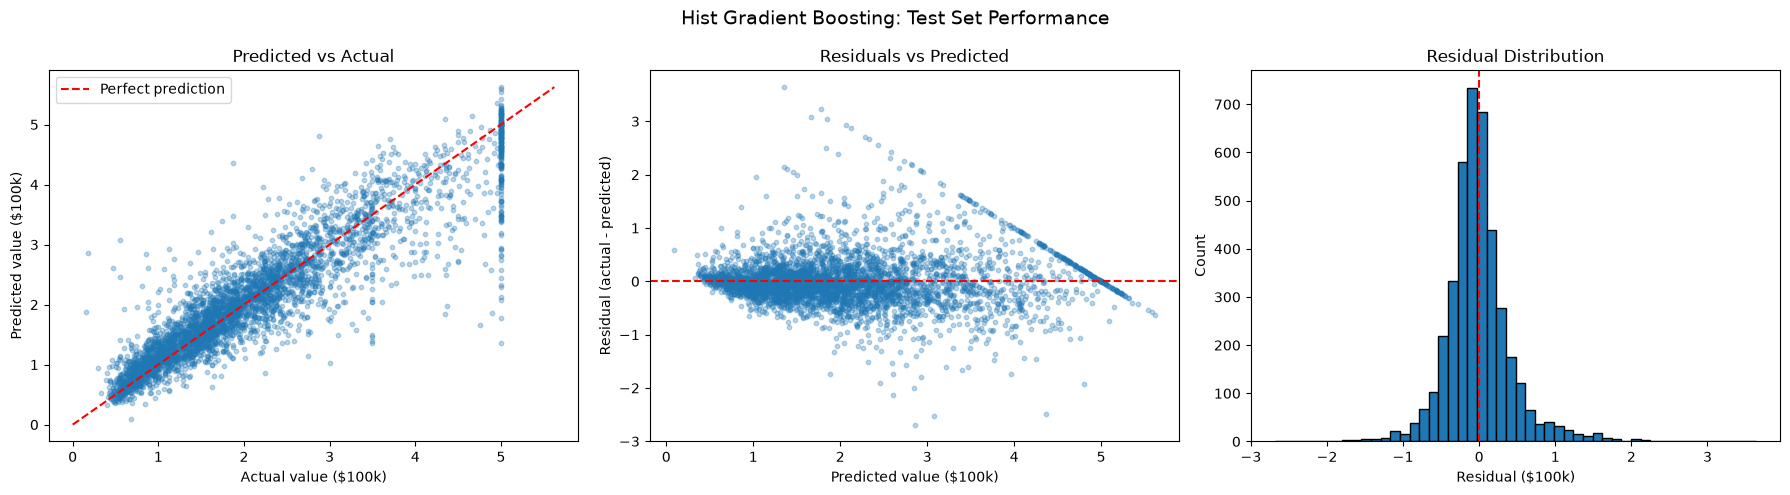
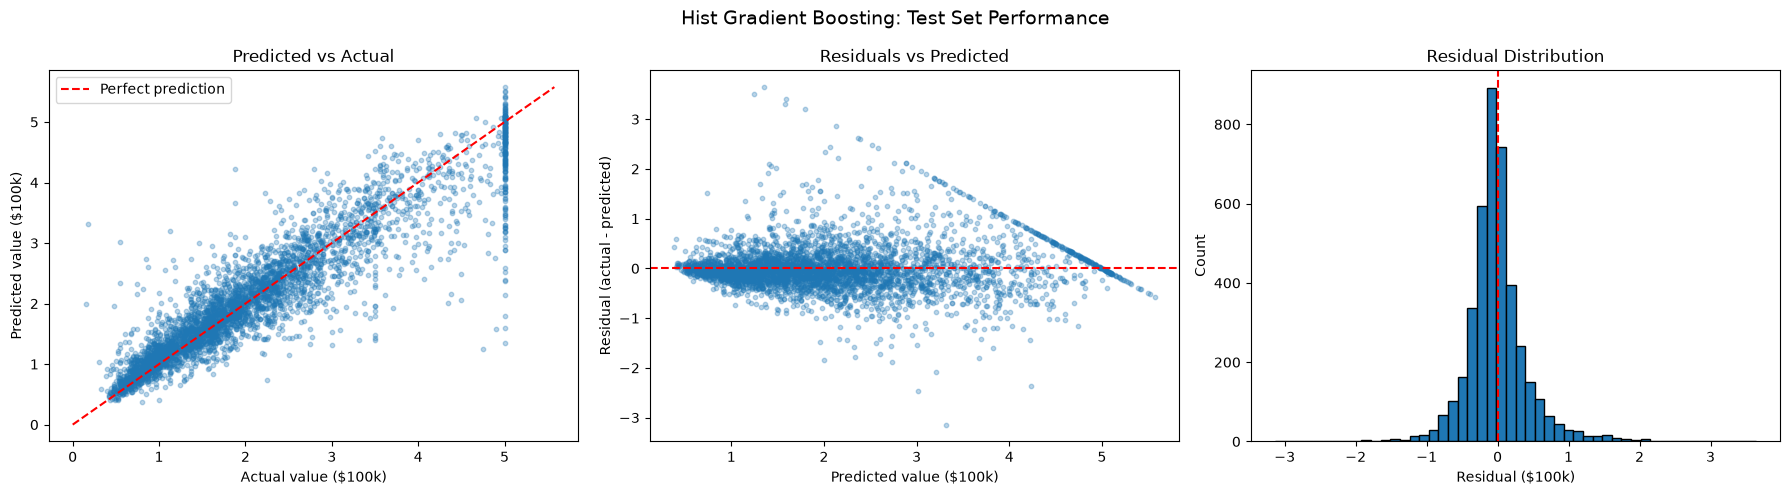
add feature engineering to improve prediction error

diff --git a/Price_predictor.py b/Price_predictor.py
@@ -1,8 +1,8 @@
 import pandas as pd
 import numpy as np
 from sklearn.datasets import fetch_california_housing
-from sklearn.model_selection import train_test_split, KFold, cross_val_score, RandomizedSearchCV
-from sklearn.pipeline import Pipeline
+from sklearn.model_selection import train_test_split, KFold, cross_val_score, RandomizedSearchCV, GridSearchCV
+from sklearn.pipeline import Pipeline, FunctionTransformer
 from sklearn.preprocessing import StandardScaler
 from sklearn.dummy import DummyRegressor
 from sklearn.ensemble import RandomForestRegressor, HistGradientBoostingRegressor
@@ -16,6 +16,32 @@ print(X.columns)
 X_train, X_test, y_train, y_test = train_test_split(X, y, test_size=0.2, random_state=2)
 
 # no data cleaning since no Nan values in dataset
+
+# feature engineering to derive better insights from data
+
+# approximate (lat, lon) of major cities
+cities = {
+    'SF': (37.77, -122.42), 'LA': (34.05, -118.24), 'SD': (32.72, -117.16),
+    'SJ': (37.34, -121.89), 'Sac': (38.58, -121.49)
+}
+def add_features(X):
+    X = X.copy()
+    
+    for city, (lat, long) in cities.items():
+        # calculate distance of house to every major city
+        X[f'dist_{city}'] = np.hypot((X['Latitude'] - lat), (X['Longitude'] - long))
+    # Pick the closest distance to a major city
+    X['major_city_min_dist'] = X[[f'dist_{city}' for city in cities]].min(axis=1)
+    
+    # calculate average bedroom ratio
+    X["bedroom_ratio"] = X['AveBedrms'] / X['AveRooms']
+
+    # transform population data to reduce skew
+    X['log_pop'] = np.log1p(X['Population'])
+    return X
+
+# Pipeline for feature engineering
+
 # creating a basline for evaluating models later
 scaler = StandardScaler()
 cv = KFold(n_splits=5, shuffle=True, random_state=2)
@@ -38,12 +64,12 @@ print(f"baseline rmse scores with dummy regressor:\nmean: {base_scores.mean()}\n
 # )
 gradient_boost_pipeline = Pipeline(
     steps=[
+        ('features', FunctionTransformer(add_features)),
         ('preprocessor', scaler),
         ('histmodel', HistGradientBoostingRegressor(random_state=2))
     ]
 )
 
-# tuning hyperparameters on RandomizedSearchCV to reduce time
 # forest_params = {
 #     "forestmodel__n_estimators": range(100, 500, 100),
 #     "forestmodel__max_depth": [10, 20, 30, 40, None],
@@ -55,15 +81,15 @@ gradient_boost_pipeline = Pipeline(
 # forest_search.fit(X_train, y_train)
 # forest_model = forest_search.best_estimator_
 
+# tuning hyperparameters on RandomizedSearchCV to reduce time
 gradient_boost_params = {
-    "histmodel__max_iter": range(200, 600, 100),
+    "histmodel__max_iter": range(200, 10000, 100),
     "histmodel__learning_rate": [num/100 for num in range(3, 20, 3)],
     "histmodel__max_depth": range(3, 6),
-    "histmodel__min_samples_leaf": [10, 20, 40],
-    "histmodel__l2_regularization": [0.0, 0.1, 1.0],
+    "histmodel__min_samples_leaf": [10, 20, 25, 30, 40],
+    "histmodel__l2_regularization": [0.0, 0.1, 0.2, 1.0]
 }
-gradient_search = RandomizedSearchCV(gradient_boost_pipeline, param_distributions=gradient_boost_params, scoring="neg_root_mean_squared_error",
-                                     random_state=2, cv=cv, n_iter=15, n_jobs=-1)
+gradient_search = RandomizedSearchCV(gradient_boost_pipeline, param_distributions=gradient_boost_params, scoring="neg_root_mean_squared_error", random_state=2, cv=cv, n_iter=100, n_jobs=-1)
 gradient_search.fit(X_train, y_train)
 gradient_boost_model = gradient_search.best_estimator_
 
